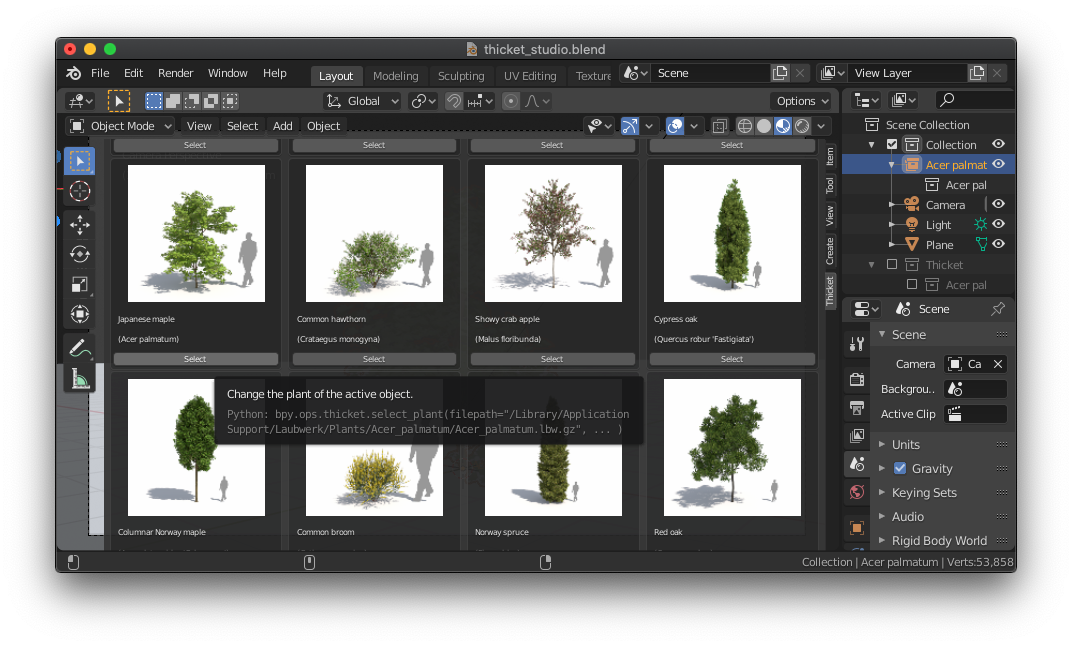
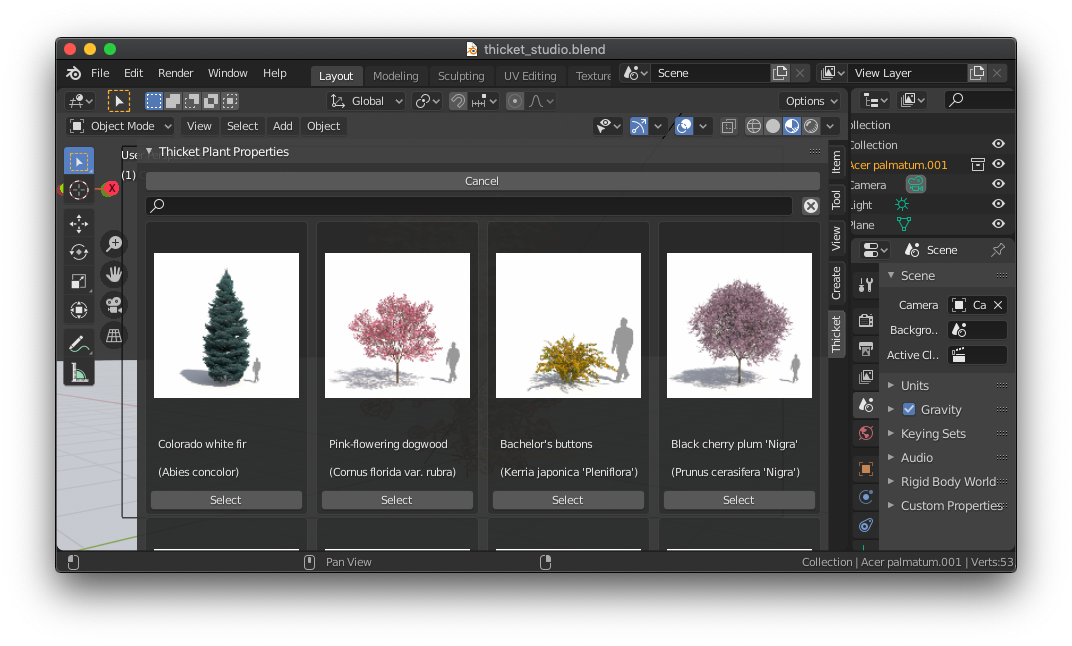
README: Update for gallery search
Update the README's gallery select screenshot and description to
document the search feature.

diff --git a/README.md b/README.md
@@ -75,8 +75,7 @@ Thicket adds a Blender N Panel to Add, Edit, and Delete plants. Access the panel
 ![doc/thicket-panel-add-only.png](doc/thicket-panel-add-only.png)
 
 ### Add Plant
-To add a plant, click `Add Plant` and select from the gallery presented. You can
-resize the panel to show up to 5 columns of plants.
+To add a plant, click `Add Plant` and select from the gallery presented. You can resize the panel to show up to 5 columns of plants. You can filter the results by entering a search term (clear the search by pressing the cancel icon to the right of the search field).
 
 ![doc/thicket-panel-select.png](doc/thicket-panel-select.png)
 
